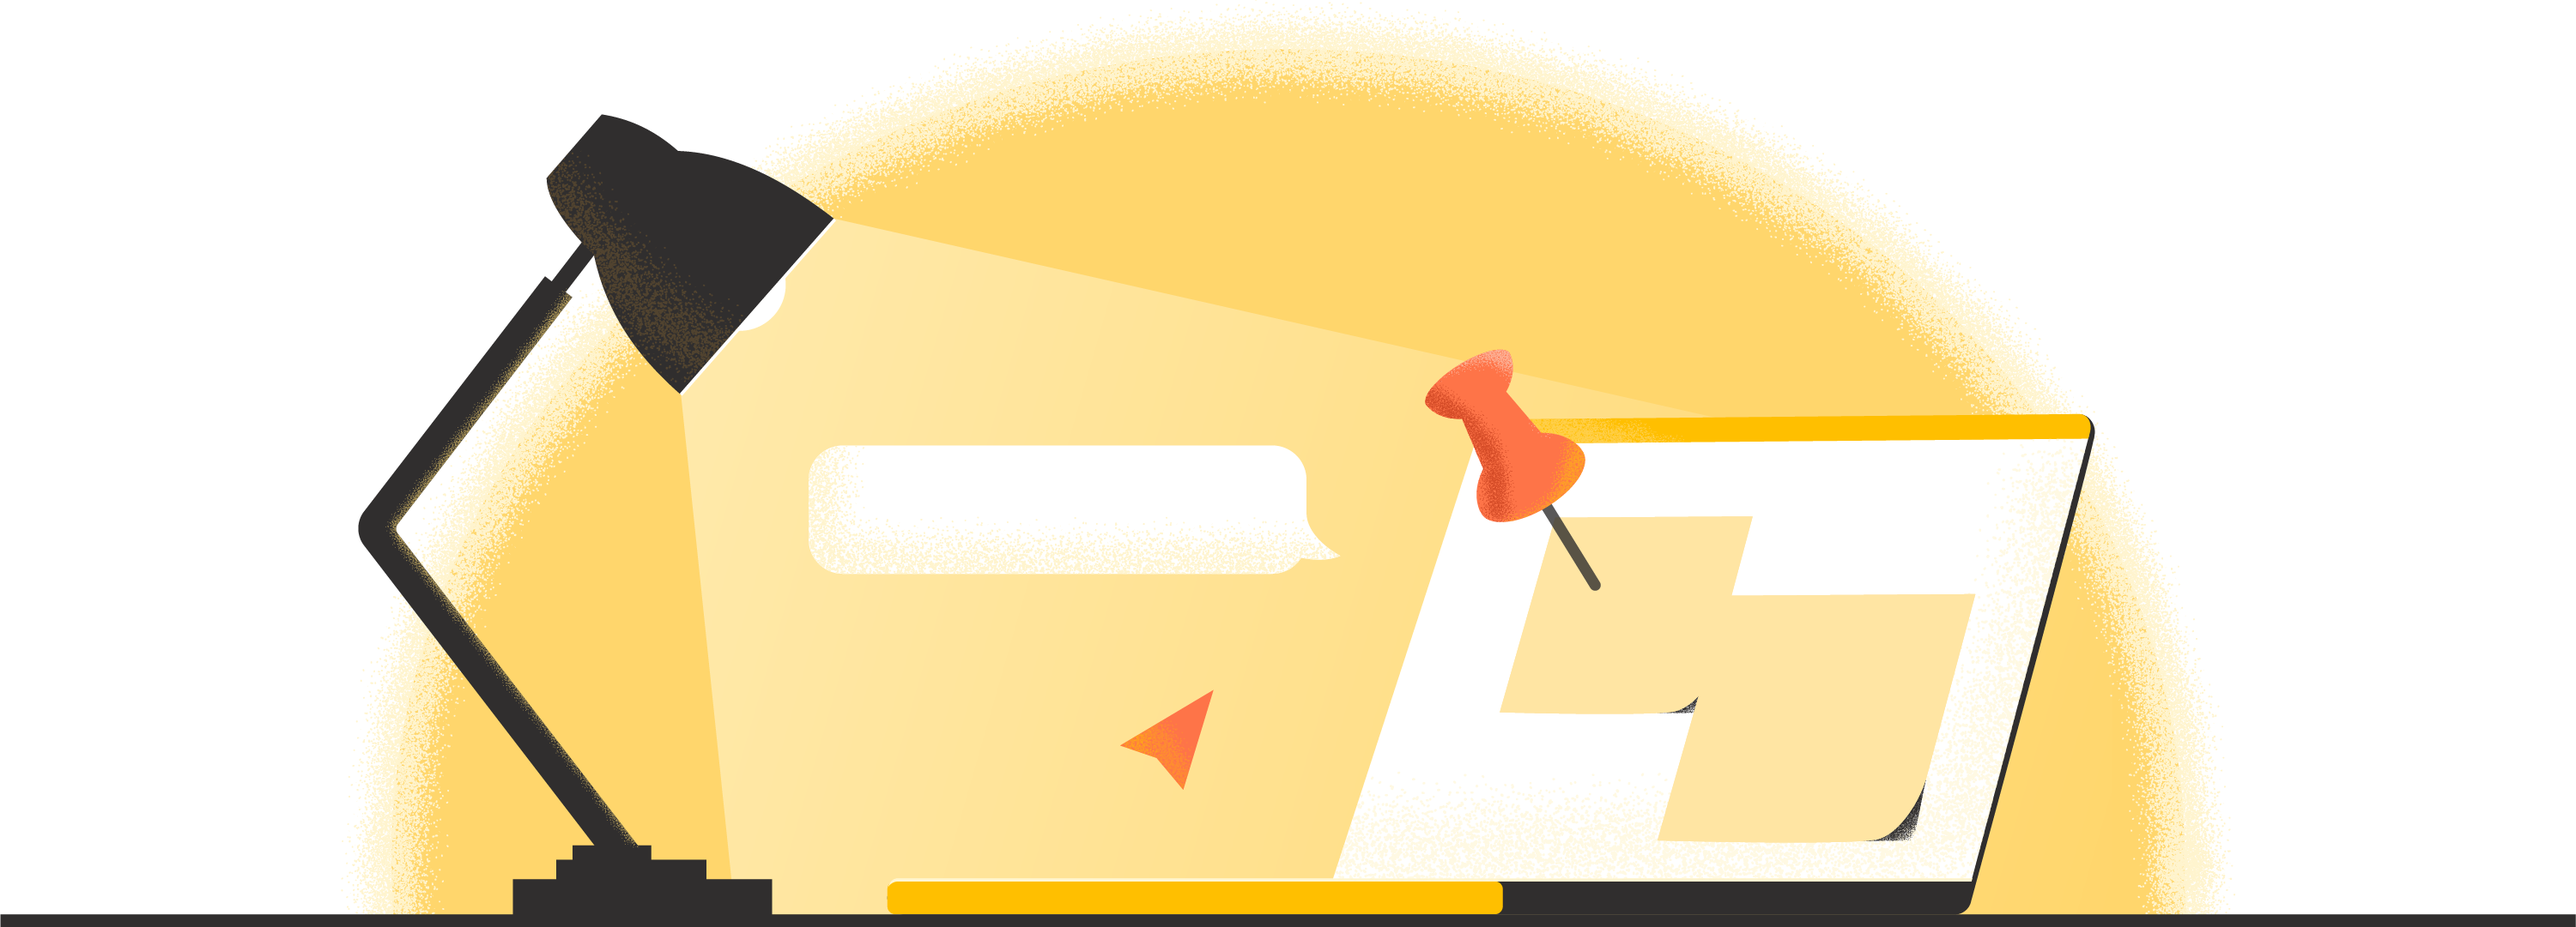
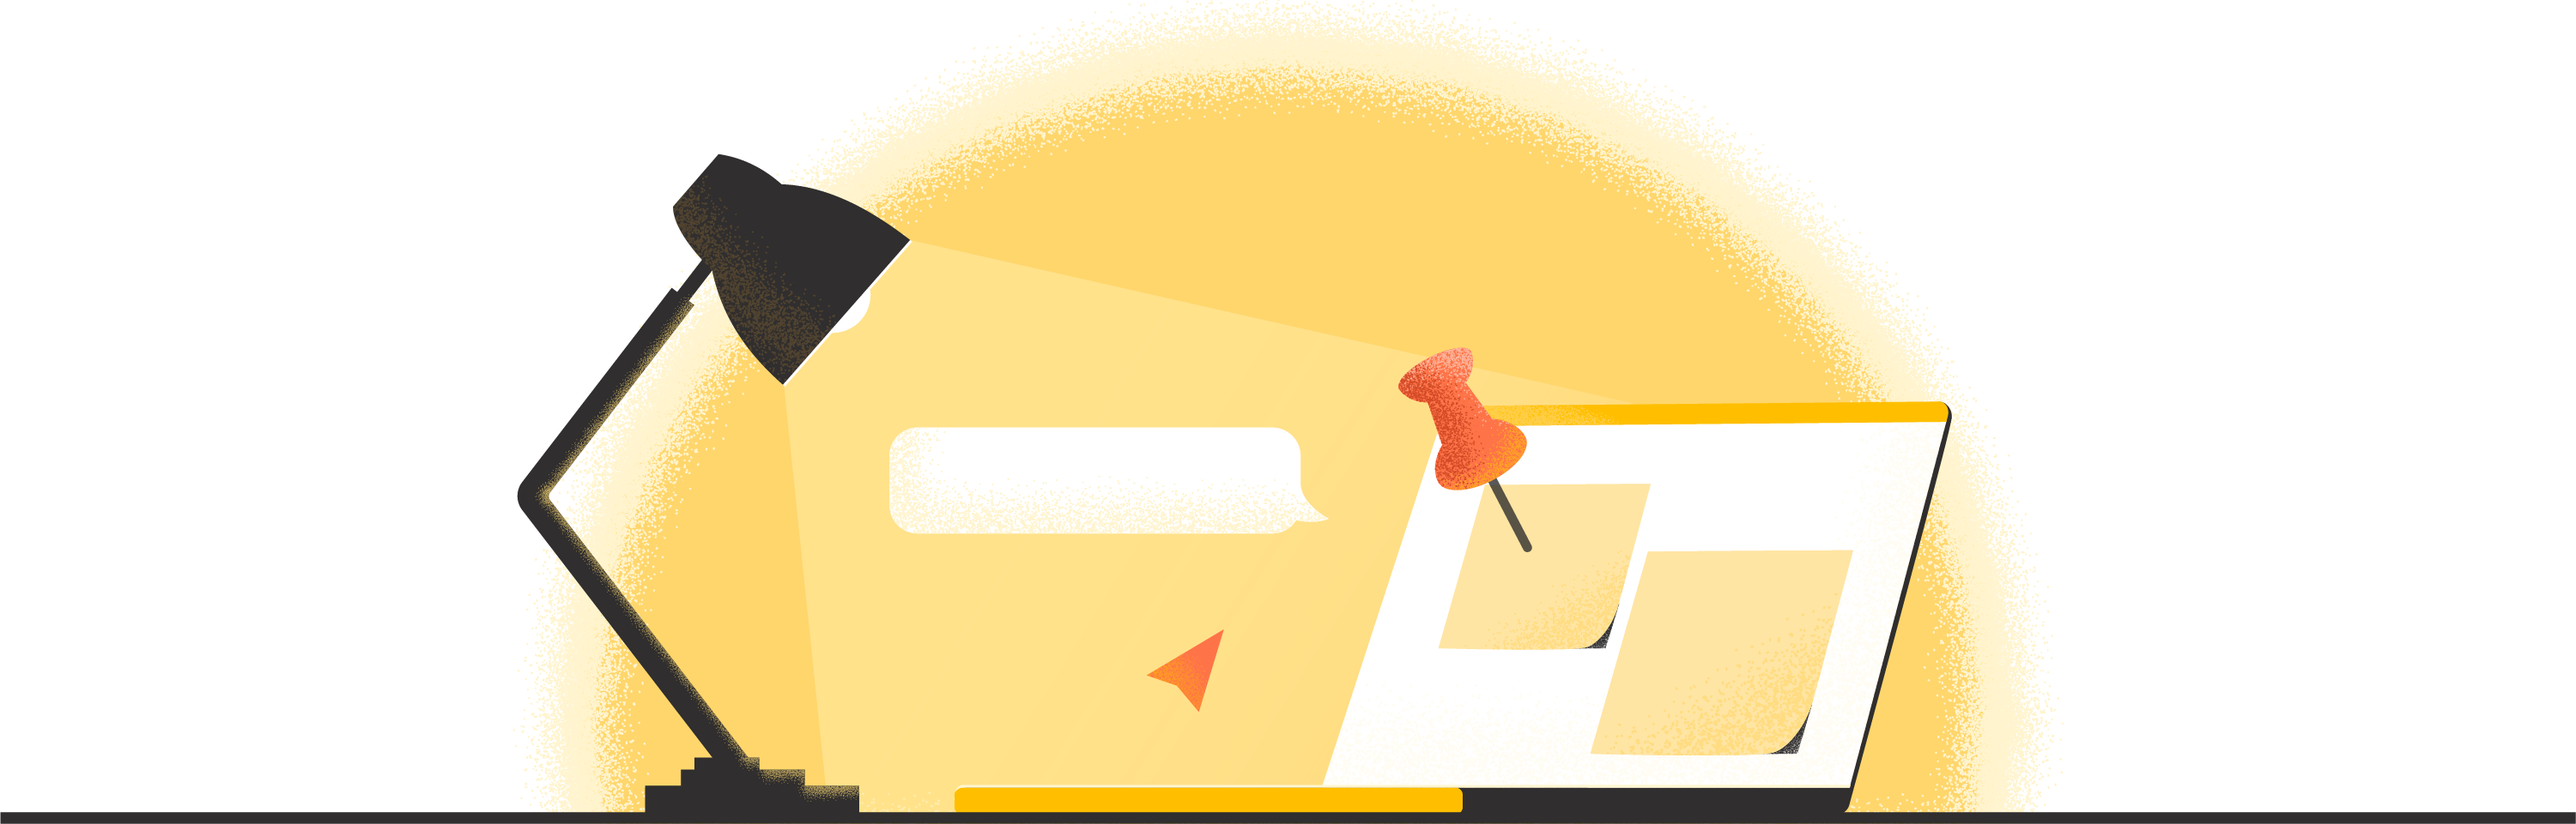
무한로딩 fixed, 질문 모음 페이지 일러스트 fixed

Changed region(s): [[0.0, 0.0, 1.0, 1.0], [0.4339, 0.7492, 0.4958, 0.8429]]

diff --git a/pages/index.tsx b/pages/index.tsx
@@ -38,6 +38,7 @@ export default function MainHome() {
   const myJob = useRecoilValue(jobState);
   const [myPost, setMyPost] = useState<QuestionResponse>();
   const [random, setRandom] = useState<RandomQuestion[]>([]);
+
   const handleData = () => {
     async function getRandomQuestion() {
       const result = await fetchQuestionByJob(
@@ -47,6 +48,7 @@ export default function MainHome() {
     }
     getRandomQuestion();
   };
+
   useEffect(() => {
     async function getRandomQuestion() {
       const result = await fetchQuestionByJob(
@@ -56,6 +58,7 @@ export default function MainHome() {
     }
     getRandomQuestion();
   }, [selectedOthersCategory]);
+
   useEffect(() => {
     async function getMyQuestion() {
       const result = await fetchQuestion({
@@ -68,7 +71,7 @@ export default function MainHome() {
       setMyPost(result);
     }
     if (session) getMyQuestion();
-  }, [selectedMyCategory, page, session]);
+  }, [selectedMyCategory, page, session, myJob]);
 
   const handleClickPin = (post: QuestionResponse) => {
     setMyPost(post);

diff --git a/const/categories.tsx b/const/categories.tsx
@@ -30,9 +30,9 @@ const practical: Category = {
   code: 'PRACTICAL',
 };
 
-const undertanding: Category = {
-  name: '직무이해도',
-  code: 'UNDERSTANIDNG',
+const etc: Category = {
+  name: '기타',
+  code: 'ETC',
 };
 
 const major: Category = {
@@ -45,7 +45,7 @@ export const allCategoryMaps = new Map<string, Category>([
   [persandcons.code, persandcons],
   [conflict.code, conflict],
   [practical.code, practical],
-  [undertanding.code, undertanding],
+  [etc.code, etc],
   [major.code, major],
 ]);
 
@@ -54,7 +54,7 @@ export const allCategoryList = [
   persandcons,
   conflict,
   practical,
-  undertanding,
+  etc,
   major,
 ];
 
